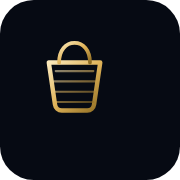
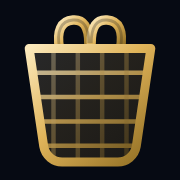
Add files via upload

diff --git a/gerla.html b/gerla.html
@@ -1086,25 +1086,35 @@ html,body{max-width:100%;overflow-x:hidden}
           <linearGradient id="oro" x1="0" y1="0" x2="1" y2="1">
             <stop offset="0" stop-color="#fbe9bb"/><stop offset=".45" stop-color="#e0b45a"/><stop offset="1" stop-color="#8f6d22"/>
           </linearGradient>
-          <linearGradient id="oro2" x1="0" y1="1" x2="1" y2="0">
-            <stop offset="0" stop-color="#8f6d22"/><stop offset="1" stop-color="#f7dda0"/>
-          </linearGradient>
-          <clipPath id="cesta"><path d="M17 25h30l-3.6 24.5A4 4 0 0 1 39.4 53H24.6a4 4 0 0 1-4-3.5Z"/></clipPath>
+          <clipPath id="cesta"><path d="M17 24h30l-3.6 24.2A4.6 4.6 0 0 1 38.8 52H25.2a4.6 4.6 0 0 1-4.6-3.8Z"/></clipPath>
         </defs>
-        <circle cx="32" cy="32" r="30" fill="none" stroke="url(#oro2)" stroke-width="1" opacity=".45"/>
+
+        <!-- Le due bretelle. Una gerla si porta in spalla: gli spallacci
+             salgono dal bordo e ricadono dietro. Da davanti se ne vedono le
+             due anse che sporgono appena sopra il cestone. -->
+        <g fill="none" stroke="url(#oro)" stroke-width="2.3" stroke-linecap="round" stroke-linejoin="round">
+          <path d="M24.5 24c-.8-4.2.3-6.8 3.3-7 2.6-.2 3.9 1.7 3.9 5.7"/>
+          <path d="M39.5 24c.8-4.2-.3-6.8-3.3-7-2.6-.2-3.9 1.7-3.9 5.7"/>
+        </g>
+        <g fill="none" stroke="#060a13" stroke-width=".7" opacity=".25">
+          <path d="M24.5 24c-.8-4.2.3-6.8 3.3-7 2.6-.2 3.9 1.7 3.9 5.7"/>
+          <path d="M39.5 24c.8-4.2-.3-6.8-3.3-7-2.6-.2-3.9 1.7-3.9 5.7"/>
+        </g>
+
+        <!-- l'intreccio di vimini -->
         <g clip-path="url(#cesta)">
-          <rect x="14" y="24" width="36" height="30" fill="url(#oro)" opacity=".14"/>
-          <g stroke="url(#oro)" stroke-width="1.1" opacity=".85">
-            <path d="M14 30h36M14 36h36M14 42h36M14 48h36"/>
-            <path d="M21 24v30M27 24v30M32 24v30M37 24v30M43 24v30" opacity=".5"/>
+          <rect x="16" y="23" width="32" height="30" fill="url(#oro)" opacity=".14"/>
+          <g stroke="url(#oro)" stroke-width="1.1" opacity=".75" fill="none">
+            <path d="M16 30h32M16 36h32M16 42h32M16 48h32"/>
+            <path d="M23 23v30M29 23v30M35 23v30M41 23v30" opacity=".42"/>
           </g>
         </g>
-        <path d="M17 25h30l-3.6 24.5A4 4 0 0 1 39.4 53H24.6a4 4 0 0 1-4-3.5Z" fill="none" stroke="url(#oro)" stroke-width="2" stroke-linejoin="round"/>
-        <path d="M13.5 25h37" stroke="url(#oro)" stroke-width="2.6" stroke-linecap="round"/>
-        <path d="M23 25c0-7.4 4-11.5 9-11.5s9 4.1 9 11.5" fill="none" stroke="url(#oro)" stroke-width="1.7" stroke-linecap="round"/>
-        <path d="M32 13.5V7" stroke="url(#oro)" stroke-width="1.5" stroke-linecap="round"/>
-        <path d="M32 7c-2.6-.4-4.4.8-5.2 3.2 2.6.6 4.4-.4 5.2-3.2Zm0 0c2.6-.4 4.4.8 5.2 3.2-2.6.6-4.4-.4-5.2-3.2Z" fill="url(#oro)" opacity=".9"/>
-        <path d="M24 20.5c1.6-2 4.6-3 8-3s6.4 1 8 3" fill="none" stroke="url(#oro)" stroke-width=".9" opacity=".55"/>
+
+        <!-- il corpo, che si stringe verso il basso come una gerla vera -->
+        <path d="M17 24h30l-3.6 24.2A4.6 4.6 0 0 1 38.8 52H25.2a4.6 4.6 0 0 1-4.6-3.8Z"
+              fill="none" stroke="url(#oro)" stroke-width="2.2" stroke-linejoin="round"/>
+        <path d="M14.5 24h35" stroke="url(#oro)" stroke-width="3" stroke-linecap="round"/>
+        <path d="M19 28.5h26" stroke="url(#oro)" stroke-width=".9" opacity=".45"/>
       </symbol>
 <symbol id="fl-ch" viewBox="0 0 24 16"><rect width="24" height="16" rx="2.4" fill="#d52b1e"/><path d="M10.4 3.6h3.2v3.2h3.2v3.2h-3.2v3.2h-3.2V10H7.2V6.8h3.2Z" fill="#fff"/></symbol>
 <symbol id="fl-it" viewBox="0 0 24 16"><clipPath id="cit"><rect width="24" height="16" rx="2.4"/></clipPath><g clip-path="url(#cit)"><rect width="8" height="16" fill="#008C45"/><rect x="8" width="8" height="16" fill="#F4F5F0"/><rect x="16" width="8" height="16" fill="#CD212A"/></g></symbol>
